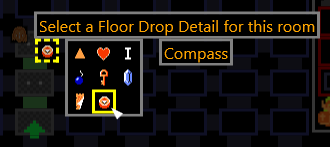
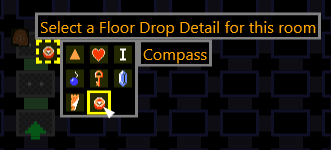
more monster types, update docs & tips

diff --git a/doc/use.md b/doc/use.md
@@ -451,10 +451,6 @@ middle-click-yellow-circle a room to quickly mark it, rather than go through the
 such as an unreachable key in the middle of a circle-moat room when I don't have the ladder, then I use the FloorDropDetail UI to capture that specific bit
 of information.)
 
-The MonsterDetail and FloorDropDetail information appear as tiny icons in the corners of rooms on the map.  If you want to briefly make these icons larger 
-and see a legend, you can mouse-hover the button in the very bottom right of the dungeon tab.  If you want to permanently keep the icons on their larger
-size, click that button to toggle the size.
-
 While the vast majority of RoomType choices represent staircases (e.g. transport 2, item basement), NPCs (e.g. bomb ugrade, hungry Goriya), or geometry-
 blockers (e.g. chutes, moats), there are also four special RoomTypes to mark the entrance to the dungeon, along with which direction you entered from.
 As a convenience, the very first room you left-click on in the dungeon will automatically become the 'Dungeon entrance (from south)' tile, as this is the most 

diff --git a/doc/whats-new.md b/doc/whats-new.md
@@ -35,14 +35,16 @@ To make it less likely to accidentally map a dungeon in the wrong tab, the dunge
 
 ![Dungeon numeral](screenshots/dungeon-numeral.png)
 
-### More dungeon room types
+### More types of dungeon rooms and monsters; Simpler UI for choosing rooms, Monster Detail, and Floor Drop Detail
 
 The dungeon room shape "Lava Moat" has been added, and now the existing room types "Bomb Upgrade", "Hungry Goriya", "Gannon", "Zelda", and "Off the map" are now
-always available in the dungeon room selection popup menu.
+always available in the dungeon room selection popup menu.  
 
 ![Dungeon room types](screenshots/dungeon-room-types.png)
 
-### Simpler Dungeon Room UI for choosing rooms, Monster Detail, and Floor Drop Detail
+Many more monster types can be optionally marked in a room:
+
+![Dungeon room types](screenshots/dungeon-room-monster-detail.png)
 
 For details, see the [main documentation](use.md#main-drpu) on this topic.
 
